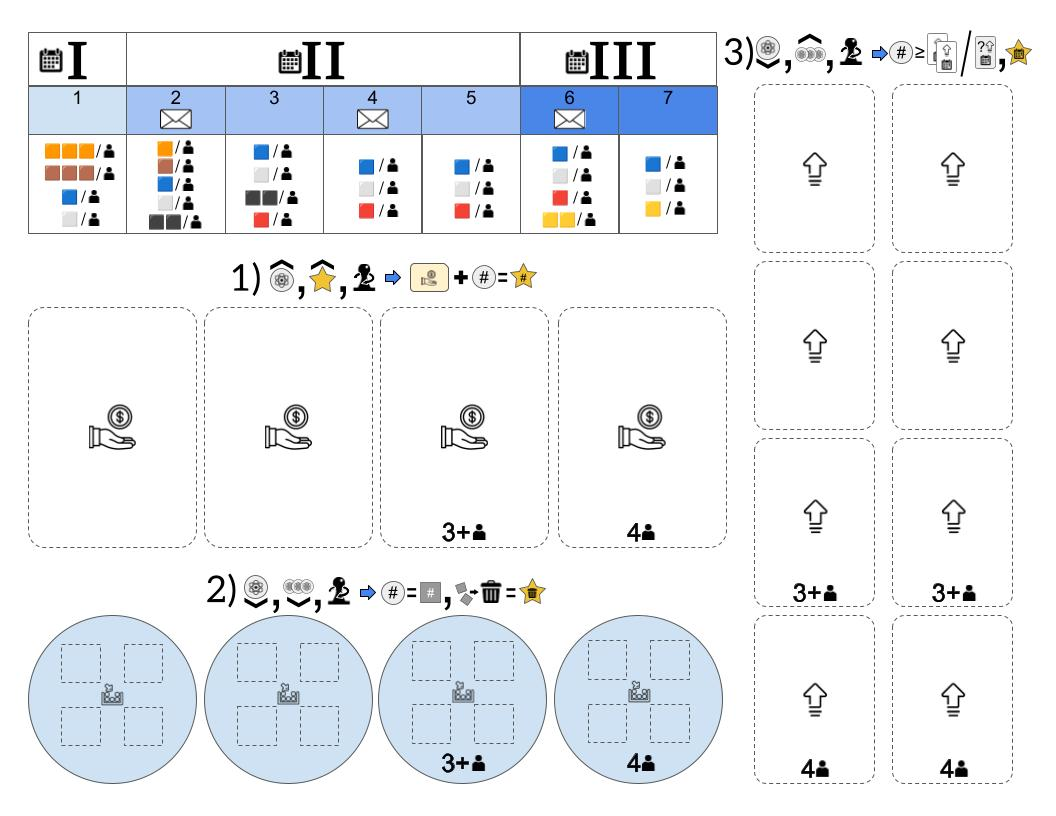
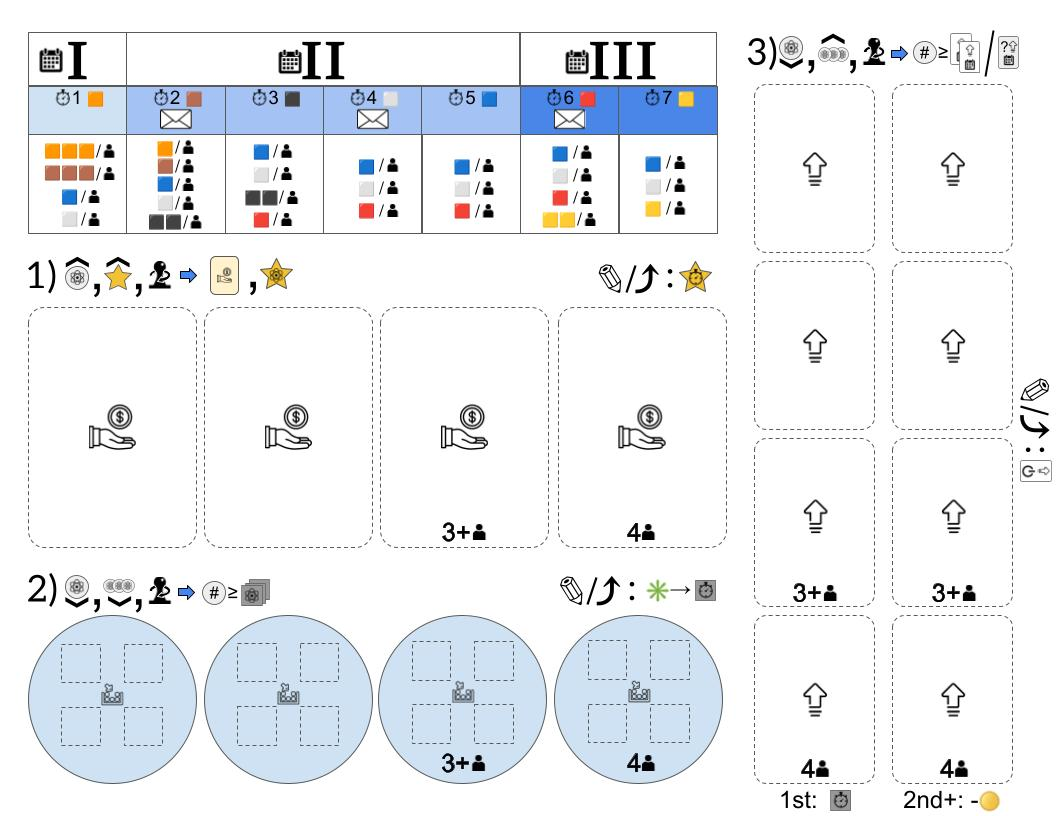
Trying some changes

diff --git a/blue-breakthrough/src/game/actions.ts b/blue-breakthrough/src/game/actions.ts
@@ -79,18 +79,48 @@ export class Actions {
       prompt: 'Publish',
       condition: game.getPlayerToken(player, game.currentAction).ability() == TokenAbility.Publish
     }).do(() => {
+      switch(game.currentAction) {
+        case TokenAction.Funding: {
+          player.scorePoints(game.round, "Funding with ability");
+          break;
+        }
+        case TokenAction.Resources: {
+          if(player.space.first(ResourceSpace)!.all(ResourceCube).length > 0) {
+            game.followUp({name: 'convertRoundCube'});
+          }
+          break;
+        }
+        case TokenAction.Upgrade: {
+          break;
+        }
+      }
       player.space.first(PowerTokenSpace, {action: game.currentAction})!.complete = true;
     }),
 
     recall: (player) => action({
-      prompt: 'Publish',
+      prompt: 'Recall',
       condition: game.getPlayerToken(player, game.currentAction).ability() == TokenAbility.Recall
     }).do(() => {
+      switch(game.currentAction) {
+        case TokenAction.Funding: {
+          player.scorePoints(game.round, "Funding with ability");
+          break;
+        }
+        case TokenAction.Resources: {
+          if(player.space.first(ResourceSpace)!.all(ResourceCube).length > 0) {
+            game.followUp({name: 'convertRoundCube'});
+          }
+          break;
+        }
+        case TokenAction.Upgrade: {
+          break;
+        }
+      }
       player.space.first(PowerTokenSpace, {action: game.currentAction})!.complete = true;
     }),
 
     forbidden: (player) => action({
-      prompt: 'Publish',
+      prompt: 'Forbidden',
       condition: game.getPlayerToken(player, game.currentAction).ability() == TokenAbility.Forbidden
     }).do(() => {
       player.space.first(PowerTokenSpace, {action: game.currentAction})!.complete = true;
@@ -151,7 +181,7 @@ export class Actions {
       { skipIf: 'never' }
     ).do(({ token }) => {
       // player.scorePoints(player.space.first(UnavailableTokenSpace)!.all(PowerToken).length);
-      player.scorePoints(game.round, "Recall");
+      // player.scorePoints(game.round, "Recall");
       token.showOnlyTo(player);
       token.putInto(player.space.first(AvailableTokenSpace)!);
     }),
@@ -168,6 +198,27 @@ export class Actions {
         funding.putInto(game.first(Supply)!);
         this.powers.afterDiscardingFunding(player);
       }
+    }),
+
+    convertRoundCube: (player) => action({
+      prompt: 'Choose Cube'
+    }).chooseOnBoard(
+      'cube', player.space.first(ResourceSpace)!.all(ResourceCube),
+      { skipIf: 'never' }
+    ).do(({cube}) => {
+      const supply = game.first(Supply)!;
+      cube.putInto(supply);
+      game.followUp({name: 'chooseRoundCube'});
+    }),
+
+    chooseRoundCube: (player) => action({
+      prompt: "Gain Round Cube"
+    }).chooseFrom(
+      "choice", ['🟧','🟫','⬛','⬜','🟦','🟥','🟨'].slice(0, game.round),
+      { skipIf: 'never' }
+    ).do(({choice}) => {
+      game.first(Supply)!.first(ResourceCube, {color: game.colorFromSymbol(choice)})!
+        .putInto(player.space.first(ResourceSpace)!);
     }),
 
     chooseResources: (player) => action({
@@ -212,7 +263,7 @@ export class Actions {
         }
       }
 
-      player.scorePoints(this.letters.discardedCubePoints(player, plate.all(ResourceCube).length), "Gather Resources");
+      // player.scorePoints(this.letters.discardedCubePoints(player, plate.all(ResourceCube).length), "Gather Resources");
 
       plate.all(ResourceCube).forEach( c=> c.putInto(game.first(Supply)!) );
     }),
@@ -222,17 +273,17 @@ export class Actions {
       prompt: "Choose Upgrades (" + game.getPlayerToken(player, TokenAction.Upgrade).value() + ")"
     }).chooseOnBoard(
       'upgrades', game.all(UpgradeSpace).all(UpgradeCard)
-        .filter(x => x.cost-this.powers.bonusUpgradeDiscout(player)+this.letters.upgradeTax(player) <= game.getPlayerToken(player, TokenAction.Upgrade).value())
+        .filter(x => x.cost-this.powers.bonusUpgradeDiscout(player, x)+this.letters.upgradeTax(player) <= game.getPlayerToken(player, TokenAction.Upgrade).value())
         .filter(x => this.letters.upgradeAvailable(player, x)),
       { min: 1, max: 2, skipIf: 'never', validate: ({upgrades}) => {
-        const upgradeSum = upgrades.reduce((sum, x) => sum + x.cost-this.powers.bonusUpgradeDiscout(player)+this.letters.upgradeTax(player), 0)
+        const upgradeSum = upgrades.reduce((sum, x) => sum + x.cost-this.powers.bonusUpgradeDiscout(player, x)+this.letters.upgradeTax(player), 0)
         return upgradeSum <= game.getPlayerToken(player, TokenAction.Upgrade).value();
       } }
     ).do(({ upgrades }) => {
       player.purchasedUpgrades = upgrades.length;
       upgrades.forEach( c=> player.placeUpgrade(c) );
-      player.scorePoints((game.getEra() * upgrades.length) + 
-        upgrades.reduce((sum, current) => sum + this.powers.bonusUpgradePoints(current, player), 0), this.powers.bonusUpgradePointsReason(player));
+      // player.scorePoints((game.getEra() * upgrades.length) + 
+        // upgrades.reduce((sum, current) => sum + this.powers.bonusUpgradePoints(current, player), 0), this.powers.bonusUpgradePointsReason(player));
       player.space.first(PowerTokenSpace, {action: TokenAction.Upgrade})!.complete = true;
     }).message(`{{player}} bought {{upgrades}}`),  
 
@@ -267,7 +318,7 @@ export class Actions {
     ).do(({ upgrade, choice }) => {
       if(choice == 'Yes') {
         player.board.first(ReactorSpace, {type: upgrade.type})!.first(UpgradeCard)!.putInto(game.first(Supply)!);
-        upgrade.putInto(player.board.first(ReactorSpace, {type: upgrade.type})!);
+        player.putUpgradeInReactor(upgrade);
       } else {
         upgrade.putInto(game.first(Supply)!);
       }
@@ -294,7 +345,7 @@ export class Actions {
     ).do(({ pump }) => {
       const space = pump.container(ReactorSpace)!
       pump.putInto(game.first(Supply)!);
-      pump.putInto(space);
+      player.putUpgradeInReactor(pump);
     }), 
 
     chooseUpgradeFromDraw: (player) => action({

diff --git a/blue-breakthrough/src/game/index.ts b/blue-breakthrough/src/game/index.ts
@@ -138,30 +138,30 @@ export class BlueBreakthroughPlayer extends Player<MyGame, BlueBreakthroughPlaye
 
     public publishPaper() : void {
       this.space.first(PublishToken, {flipped: false})!.flipped = true;
-      switch(this.space.all(PublishToken, {flipped: true}).length) {
-        case 1:
-          this.scorePoints(1, 'Publish (1)');
-          break;
-        case 2:
-          this.scorePoints(3, 'Publish (2)');
-          break;
-        case 3:
-          this.scorePoints(6, 'Publish (3)');
-          break;
-        case 4:
-          this.scorePoints(10, 'Publish (4)');
-          break;
-        case 5:
-          this.scorePoints(15, 'Publish (5)');
-          break;
-      }
+      // switch(this.space.all(PublishToken, {flipped: true}).length) {
+      //   case 1:
+      //     this.scorePoints(1, 'Publish (1)');
+      //     break;
+      //   case 2:
+      //     this.scorePoints(3, 'Publish (2)');
+      //     break;
+      //   case 3:
+      //     this.scorePoints(6, 'Publish (3)');
+      //     break;
+      //   case 4:
+      //     this.scorePoints(10, 'Publish (4)');
+      //     break;
+      //   case 5:
+      //     this.scorePoints(15, 'Publish (5)');
+      //     break;
+      // }
     }
     
     public getScore() : number {
       return this.score;
     }
 
-    public placeUpgrade(upgrade: UpgradeCard) : void {
+    public placeUpgrade(upgrade: UpgradeCard) : void {    
       for(const player of this.game.players) {
         if(player != this && player.hasFunding(FundingName.PatentLicense) && player.space.all(UpgradeCard, {type: upgrade.type}).length > 0) {
           player.scorePoints(1, FundingName.PatentLicense);
@@ -173,6 +173,18 @@ export class BlueBreakthroughPlayer extends Player<MyGame, BlueBreakthroughPlaye
       } else {
         this.finishPlacingUpgrade(upgrade);
       }
+    }
+
+    public putUpgradeInReactor(upgrade: UpgradeCard) : void {
+      // is this the first time for this type?
+      const matches = this.game.all(PlayerBoard).all(ReactorSpace, {type: upgrade.type}).filter(x => x.all(UpgradeCard).length == 0).length;
+
+      if(matches) {
+        this.game.followUp({name: 'chooseRoundCube', args: {upgrade: upgrade}});
+      }
+      
+      upgrade.putInto(this.board.all(ReactorSpace, {type: upgrade.type})
+        .filter(x => x.all(UpgradeCard).length == 0)[0]);
     }
 
     public finishPlacingUpgrade(upgrade: UpgradeCard) : void {
@@ -195,7 +207,7 @@ export class BlueBreakthroughPlayer extends Player<MyGame, BlueBreakthroughPlaye
       if(space!.all(UpgradeCard).length > 0) {
         this.game.followUp({name: 'discardUpgrade', args: {upgrade: upgrade}});
       } else {
-        upgrade.putInto(space!);
+        this.putUpgradeInReactor(upgrade);
       }
     }
 
@@ -434,7 +446,8 @@ export class MyGame extends Game<MyGame, BlueBreakthroughPlayer> {
           break;
       }
 
-      if(bestToken == null || [TokenAbility.Publish, TokenAbility.Recall, TokenAbility.Forbidden].includes(bestToken.ability())) {
+      // if(bestToken == null || [TokenAbility.Publish, TokenAbility.Recall, TokenAbility.Forbidden].includes(bestToken.ability())) {
+      if(bestToken == null || [TokenAbility.Forbidden].includes(bestToken.ability())) {
         bestToken = token; bestValue = tokenValue; nextPlayer = p; bestScore = playerScore; bestSum = tokenSum; bestPriority = distance;
         // this.game.message("Initializing turn: " + nextPlayer);
       } else {

diff --git a/blue-breakthrough/src/ui/index.tsx b/blue-breakthrough/src/ui/index.tsx
@@ -42,7 +42,7 @@ render(setup, {
       { area: { left: 0, top: 10, width: 100, height: 90 }, openDirection: 'up', tab: 'Players',
         openIf: actions => actions.some(a => 
           [
-            'flipLED', 'placeToken', 'recallToken', 'revisedReportingStandards', "moraleComitteeInitiative"
+            'flipLED', 'convertRoundCube', 'placeToken', 'recallToken', 'revisedReportingStandards', "moraleComitteeInitiative"
           ]
         .includes(a.name)),
         closeIf: actions => actions.some(a => 
@@ -261,9 +261,9 @@ render(setup, {
             <circle cx="17%" cy="12%" r="10%" fill='yellow' stroke="black" strokeWidth="1" />
 
             <text x="17%" y="12%" text-anchor="middle" dominant-baseline="middle" 
-              fill={game.players.current() != null && powers.bonusUpgradeDiscout(game.players.current()!) > 0 ? "red" : "black"} font-size="60%">
+              fill={game.players.current() != null && powers.bonusUpgradeDiscout(game.players.current()!, x) > 0 ? "red" : "black"} font-size="60%">
               {x.cost - 
-                (game.players.current() != null ? powers.bonusUpgradeDiscout(game.players.current()!): 0) + 
+                (game.players.current() != null ? powers.bonusUpgradeDiscout(game.players.current()!, x): 0) + 
                 (game.players.current() != null ? letters.upgradeTax(game.players.current()!) : 0)}
             </text>
 

diff --git a/blue-breakthrough/src/game/build.ts b/blue-breakthrough/src/game/build.ts
@@ -110,8 +110,8 @@ export function buildGame(game: MyGame) {
     const availableTokens = playerBoard.create(AvailableTokenSpace, 'availableTokens' + i);
     const unavailableTokens = playerBoard.create(UnavailableTokenSpace, 'unavailableTokens' + i);
 
-    availableTokens.create(PowerToken, 'token0-' + i, {val: 0, ab: TokenAbility.None});
-    availableTokens.create(PowerToken, 'token1-' + i, {val: 1, ab: TokenAbility.None});
+    availableTokens.create(PowerToken, 'token1a-' + i, {val: 1, ab: TokenAbility.A});
+    availableTokens.create(PowerToken, 'token1b-' + i, {val: 1, ab: TokenAbility.B});
     availableTokens.create(PowerToken, 'token2a-' + i, {val: 2, ab: TokenAbility.A});
     availableTokens.create(PowerToken, 'token2b-' + i, {val: 2, ab: TokenAbility.B});
     availableTokens.create(PowerToken, 'token3a-' + i, {val: 3, ab: TokenAbility.A});

diff --git a/blue-breakthrough/src/game/powers.ts b/blue-breakthrough/src/game/powers.ts
@@ -169,8 +169,14 @@ export class FundingPowers {
         return player.hasFunding(FundingName.CubeDraw) ? 1 : 0;
     }
 
-    public bonusUpgradeDiscout(player: BlueBreakthroughPlayer) : number {
-        return player.hasFunding(FundingName.SharedUpgrade) ? 1 : 0;
+    public bonusUpgradeDiscout(player: BlueBreakthroughPlayer, upgrade: UpgradeCard) : number {
+        var discount = 0;
+        const matches = this.game.all(PlayerBoard).all(ReactorSpace, {type: upgrade.type}).filter(x => x.all(UpgradeCard).length > 0).length;
+        if(matches > 0) {
+            discount++;
+        }
+        discount += player.hasFunding(FundingName.SharedUpgrade) ? 1 : 0;
+        return discount;
     }
 
     public bonusUpgradePoints(upgrade: UpgradeCard, player: BlueBreakthroughPlayer) : number {
